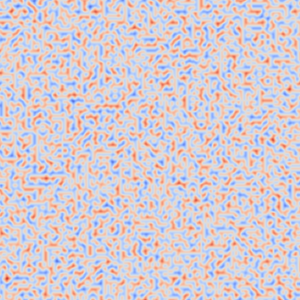
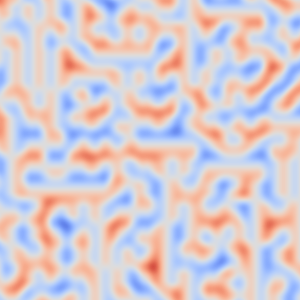
friction map coloring issue fixed

diff --git a/wheeledSim/terrain/randomTerrain.py b/wheeledSim/terrain/randomTerrain.py
@@ -59,7 +59,7 @@ class terrain(object):
 
         if texture_fp:
             textureId = p.loadTexture(texture_fp)
-            p.changeVisualShape(self.terrainBody, -1, textureUniqueId = textureId)
+            p.changeVisualShape(self.terrainBody, -1, textureUniqueId = textureId, rgbaColor=[1, 1, 1, 1])
         else:
             p.changeVisualShape(self.terrainBody, -1, textureUniqueId=-1,rgbaColor=self.color,physicsClientId=self.physicsClientId)
 
@@ -249,7 +249,7 @@ class randomRockyTerrain(terrain):
         self.gridZ = self.gridZ-np.min(self.gridZ)
 
         #Add a friction map.
-        self.frictionMap = self.perlinNoise(self.gridX.reshape(-1),self.gridY.reshape(-1), 2*self.terrainParams["perlinScale"], 1.0).reshape(self.gridX.shape)
+        self.frictionMap = self.perlinNoise(self.gridX.reshape(-1),self.gridY.reshape(-1), 0.5*self.terrainParams["perlinScale"], 1.0).reshape(self.gridX.shape)
         self.frictionMap -= min(-1.0, self.frictionMap.min())
 
         im = self.get_friction_map(self.frictionMap)
@@ -261,8 +261,6 @@ class randomRockyTerrain(terrain):
         """
         Do the conversions to get a color image from fricmap
         """
-
-        import pdb;pdb.set_trace()
         cm = plt.get_cmap('coolwarm')
         im = self.frictionMap / 2.
         im = cm(im)

diff --git a/sysid/sysid_eval.py b/sysid/sysid_eval.py
@@ -8,7 +8,12 @@ class ARXTransferFunction:
     """
     Transfer function that is linear in the last k states (targets) and actions.
     """
-    def __init__(self, buf_size=3, device='cpu'):
+    def __init__(self, buf_size=3, use_last_state=False, order=1, device='cpu'):
+        """
+        Args:
+            use_last_state: If True, just use lase item in buf (TODO: Change the forward func.)
+            order: Square the input up to this many times.
+        """
         self.Kx = torch.zeros(buf_size)
         self.Ku = torch.zeros(buf_size)
 

diff --git a/test.py b/test.py
@@ -1,3 +1,9 @@
 from wheeledSim.envs.pybullet_sim import WheeledSimEnv
+import time
+
 env = WheeledSimEnv('configurations/latentSensorParams.yaml', render=True)
+for i in range(3):
+    env.reset()
+    time.sleep(5)
+    
 input("done")
